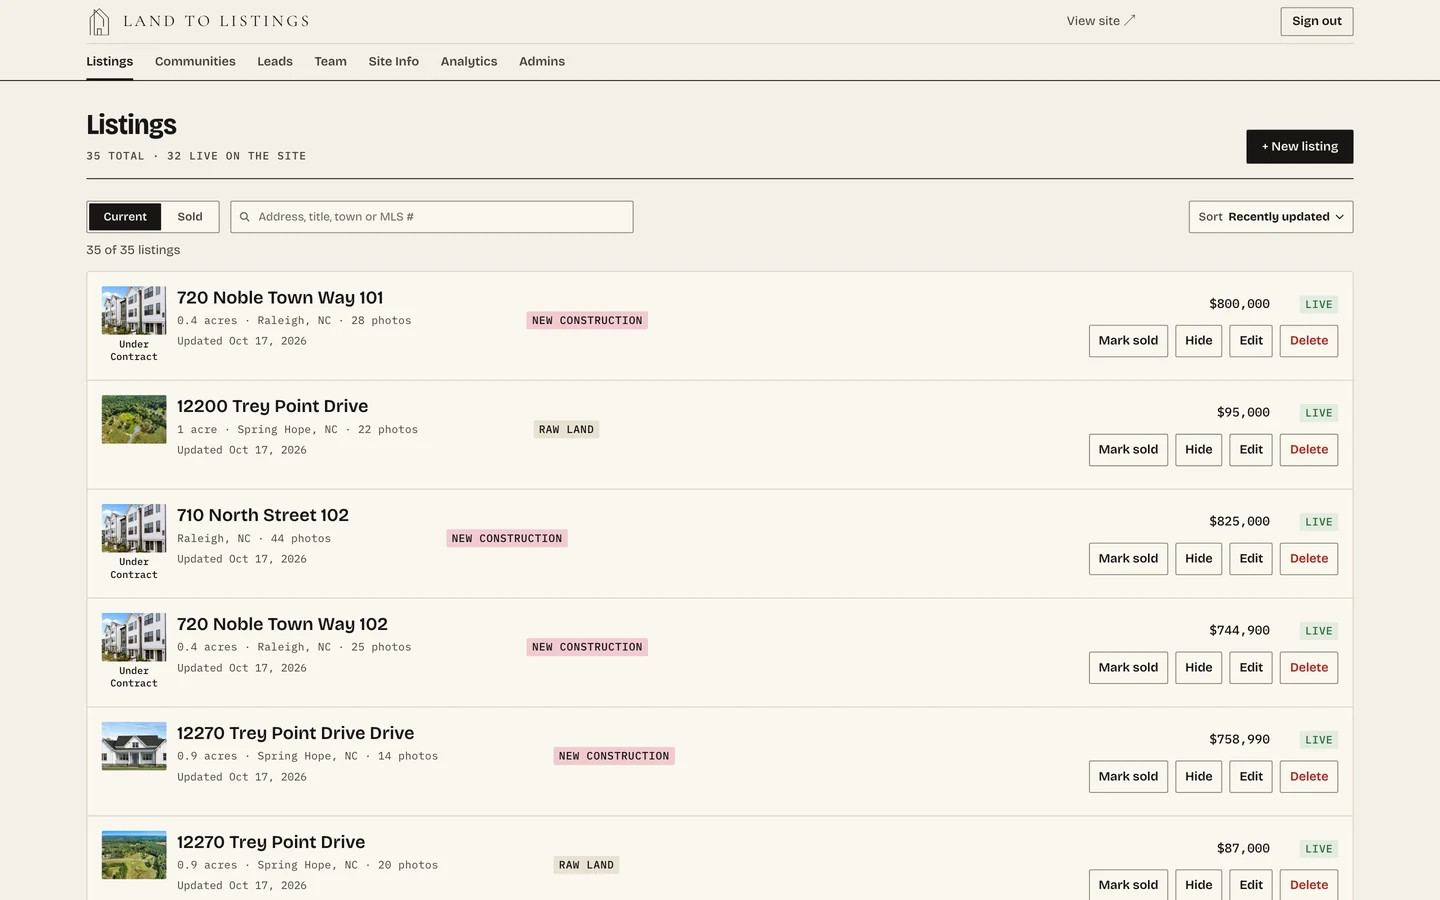
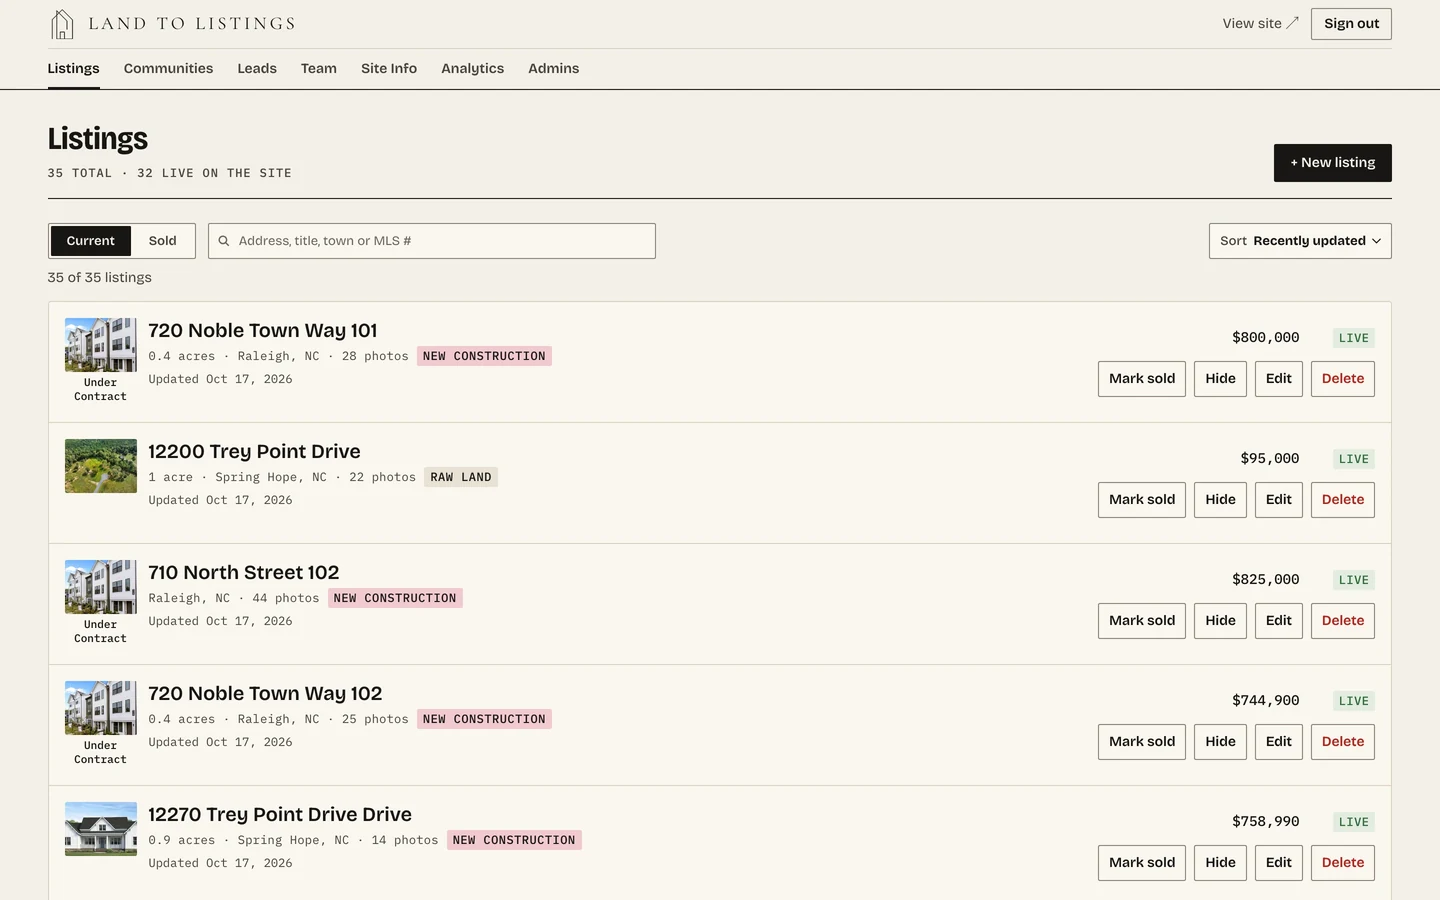
Case study: Steve's review round
- Search demo moves below the MLS section, retitled 'Try their search',
  with a first-step prompt in the accent inside the demo; the hero feature
  no longer leads with shareable links.
- Admin screenshot recaptured with the MLS badges and email removed, not
  blanked, so rows close up.
- 'The land value form' replaces 'A form landowners finish'.
- Nightly sync copy says what updates (price, status, Under Contract,
  sold or withdrawn comes off), sourced from docs/mls.md.
- Timeline trimmed to two shipped milestones a week; no call or change
  counts.
- Close row drops the cropped listing photo; close.image removed.
- Skill: voice rules for all of the above, remove-not-blank captures,
  local D1 sign-in for admin captures.

diff --git a/src/work/content/land-to-listings.ts b/src/work/content/land-to-listings.ts
@@ -43,7 +43,7 @@ const landToListings: CaseStudyContent = {
     { label: 'Runs on', value: 'Their own Cloudflare account' },
   ],
   features: [
-    'A map where every search is a link',
+    'Land and homes on one map',
     'Listings imported from their MLS',
     'Prices and status synced every night',
     'An admin with no passwords',
@@ -57,9 +57,9 @@ const landToListings: CaseStudyContent = {
     ],
   },
   demo: {
-    title: 'Every search is a link',
-    body: 'This is their live inventory. Pick a side, a place and a price: the map and the address change together, and the link opens the same results on their site.',
-    hint: 'Try Land, then Nash.',
+    title: 'Try their search',
+    body: 'This is their real inventory on a working map. Pick land or homes, a county, a price or a size, and the pins and the count follow along. The address changes too, so any search on their site can be sent as a link.',
+    hint: 'Start with Land, then pick Nash.',
   },
   story: {
     title: 'What we built',
@@ -86,7 +86,7 @@ const landToListings: CaseStudyContent = {
         image: screen('admin-listings', 'The admin listings table: Current and Sold tabs, a search box and a sort, and rows with each listing’s photo, address, type, price, status and actions.'),
       },
       {
-        title: 'A form landowners finish',
+        title: 'The land value form',
         body: 'It asks where the land is and how to reach them, and nothing else is required. Their own drone footage plays beside it as a slow loop. Every lead is saved before the email goes out, so a mail failure can’t lose one.',
         image: screen('land-value', 'The “Tell us about your land” page: an aerial video of a road through green fields beside a numbered form.'),
       },
@@ -98,7 +98,7 @@ const landToListings: CaseStudyContent = {
     stages: [
       { name: 'Feed', body: 'Each listing arrives with its facts, its agents and every photo. The site takes only the team’s own listings and follows each seller’s display choices.' },
       { name: 'Import', body: 'A broker types an MLS number and gets a draft to review. The first batch brought in 25 listings and 802 photos.' },
-      { name: 'Nightly', body: 'At 4 a.m. the site checks every linked listing. Price and status follow the MLS, and the brokers’ descriptions are never touched.' },
+      { name: 'Nightly', body: 'At 4 a.m. the site checks every linked listing against the MLS. Prices and status update on their own, a pending sale shows Under Contract, and a sold or withdrawn listing comes off the site.' },
     ],
   },
   timeline: {
@@ -108,49 +108,40 @@ const landToListings: CaseStudyContent = {
         range: 'Sep 15–21',
         theme: 'A working map',
         milestones: [
-          { date: 'Sep 15', title: 'First commit', note: 'Astro on Cloudflare Workers, with D1, R2, email and sign-in links.' },
-          { date: 'Sep 17', title: 'Land and homes split', note: 'Two sides of the business, one listing form.' },
-          { date: 'Sep 18', title: 'The map works', note: 'A blank basemap and a broken back button, both fixed.' },
+          { date: 'Sep 15', title: 'First commit', note: 'Astro on Cloudflare Workers.' },
+          { date: 'Sep 18', title: 'The map', note: 'Land and homes on one searchable map.' },
         ],
       },
       {
         range: 'Sep 22–28',
         theme: 'The design',
         milestones: [
-          { date: 'Sep 22', title: 'The map agrees with the list', note: 'Filters, menu and map share one set of results.' },
-          { date: 'Sep 25', title: 'The surveyor’s sheet', note: 'A full redesign: paper, ink and survey drawings on every page.' },
-          { date: 'Sep 27', title: 'Three home pages', note: 'Built side by side on the live site so the client could choose.' },
-          { date: 'Sep 28', title: 'Copy pass', note: 'Every page rewritten in plain language.' },
+          { date: 'Sep 25', title: 'The surveyor’s sheet', note: 'Paper, ink and survey drawings across the site.' },
+          { date: 'Sep 27', title: 'Home page options', note: 'Three directions for the client to pick from.' },
         ],
       },
       {
         range: 'Sep 29–Oct 5',
         theme: 'The MLS',
         milestones: [
-          { date: 'Oct 1', title: 'Team bios', note: 'An editor for the people on the About page.' },
-          { date: 'Oct 2', title: 'The plat home page', note: 'The client’s pick becomes the home page, and the MLS import is built.' },
-          { date: 'Oct 3', title: 'Their own account', note: 'The same code deployed to the client’s Cloudflare account.' },
+          { date: 'Oct 2', title: 'MLS import', note: 'Listings come in by their MLS number.' },
+          { date: 'Oct 3', title: 'Their own account', note: 'The site moves to the client’s Cloudflare account.' },
         ],
       },
       {
         range: 'Oct 6–12',
         theme: 'Launch',
         milestones: [
-          { date: 'Oct 7', title: 'Disclaimers', note: 'Land disclaimers, and Equal Housing in the footer.' },
-          { date: 'Oct 9', title: 'Communities', note: 'Their seven categories, and the first live MLS key.' },
-          { date: 'Oct 10', title: 'Their footage', note: 'Two drone clips become slow loops on the site.' },
-          { date: 'Oct 12', title: 'landtolistings.com goes live', note: 'On their domain, with real listings.' },
+          { date: 'Oct 9', title: 'Communities', note: 'Each development gets its own page.' },
+          { date: 'Oct 12', title: 'Live', note: 'landtolistings.com goes live with real listings.' },
         ],
       },
       {
         range: 'Oct 13–19',
         theme: 'After launch',
         milestones: [
-          { date: 'Oct 13', title: 'Photo import', note: 'No cap on photos per listing, and imports that resume.' },
-          { date: 'Oct 14', title: 'Nightly MLS sync', note: 'Prices and status update every night, and Undo arrives in the admin.' },
-          { date: 'Oct 16', title: 'Client call', note: 'Seven changes from the call shipped the same day.' },
-          { date: 'Oct 17', title: 'Agent credits', note: 'Listing agents and the MLS copyright, read from the feed.' },
-          { date: 'Oct 19', title: 'Faster pages', note: 'Thumbnails, no layout shift, and desktop Lighthouse scores of 98 to 100.' },
+          { date: 'Oct 14', title: 'Nightly sync', note: 'Prices and status stay current on their own.' },
+          { date: 'Oct 19', title: 'Faster pages', note: 'Desktop Lighthouse scores of 98 to 100.' },
         ],
       },
     ],
@@ -192,7 +183,6 @@ const landToListings: CaseStudyContent = {
   close: {
     title: 'Tell us the hard thing',
     body: 'An engineer reads every message. Tell us what’s broken, half-built or still an idea, and we’ll say if we’re the right fit.',
-    image: screen('community', 'An aerial photo of a new development.'),
   },
   related: ['custom-software', 'fractional-engineering-team'],
 };

diff --git a/src/work/CaseStudyPage.tsx b/src/work/CaseStudyPage.tsx
@@ -8,8 +8,8 @@
 // .taste-skill/direction.json). In order:
 //   hero board (name, jump links, portrait + facts, hero art + statement,
 //   features + action), pinned while the hero art builds on scroll
-//   -> brief (lead + four readers) -> demo (optional live thing)
-//   -> pinned story of screens -> pipeline (optional) -> timeline tabs
+//   -> brief (lead + four readers) -> pinned story of screens
+//   -> pipeline (optional) -> demo (optional live thing) -> timeline tabs
 //   -> stepped numbers -> where it landed (video, region, facts)
 //   -> the action row (#book) -> site footer.
 import React from 'react';
@@ -52,8 +52,8 @@ export default function CaseStudyPage({ study }: { study: CaseStudyContent }) {
 
   const jumps = [
     { href: '#brief', label: 'The brief' },
-    Demo ? { href: '#search', label: 'Try the search' } : { href: '#numbers', label: 'The numbers' },
     { href: '#built', label: 'What we built' },
+    Demo ? { href: '#search', label: 'Try their search' } : { href: '#numbers', label: 'The numbers' },
     live ? { href: live, label: liveHost ?? 'The live site', external: true } : { href: '#landed', label: 'Where it landed' },
   ];
   const latest = study.timeline.weeks.length - 1;
@@ -106,18 +106,6 @@ export default function CaseStudyPage({ study }: { study: CaseStudyContent }) {
           </div>
         </section>
 
-        {/* the live thing */}
-        {study.demo && Demo && (
-          <section id="search" className="cs-sec cs-demo">
-            <div className="cs-demo__inner">
-              <h2 className="cs-lead cs-strong" data-enter>{study.demo.title}</h2>
-              <p className="cs-body cs-demo__body" data-enter="1">{study.demo.body}</p>
-              <div data-enter="2"><Demo /></div>
-              <p className="cs-small cs-demo__hint">{study.demo.hint}</p>
-            </div>
-          </section>
-        )}
-
         {/* what we built: the pinned story of screens */}
         <section id="built" className="cs-sec">
           <div className="cs-head">
@@ -130,6 +118,17 @@ export default function CaseStudyPage({ study }: { study: CaseStudyContent }) {
         {study.pipeline && (
           <section id="mls" className="cs-sec">
             <Pipeline pipeline={study.pipeline} />
+          </section>
+        )}
+
+        {/* the live thing */}
+        {study.demo && Demo && (
+          <section id="search" className="cs-sec cs-demo">
+            <div className="cs-demo__inner">
+              <h2 className="cs-lead cs-strong" data-enter>{study.demo.title}</h2>
+              <p className="cs-body cs-demo__body" data-enter="1">{study.demo.body}</p>
+              <div data-enter="2"><Demo hint={study.demo.hint} /></div>
+            </div>
           </section>
         )}
 
@@ -178,7 +177,7 @@ export default function CaseStudyPage({ study }: { study: CaseStudyContent }) {
 
         {/* the action row: cropped from a longer row of the board */}
         <section id="book" className="cs-close" aria-labelledby="cs-close-title">
-          <div className="cs-close__flank cs-close__flank--img" aria-hidden="true"><Shot image={study.close.image} /></div>
+          <div className="cs-close__flank" aria-hidden="true" />
           <div className="cs-close__tile">
             <h2 id="cs-close-title" className="cs-h">{study.close.title}</h2>
             <p className="cs-body">{study.close.body}</p>

diff --git a/src/styles/work.css b/src/styles/work.css
@@ -184,7 +184,18 @@
    ============================================================ */
 .cs-demo__inner { width: min(980px, 100%); margin: 0 auto; display: grid; gap: 16px; }
 .cs-demo__body { max-width: 40rem; margin-bottom: 20px; }
-.cs-demo__hint { margin-top: 8px; }
+/* the first thing to try, in the page's accent so it reads as an invitation;
+   after the first pick it settles into the panel and says what's happening */
+[data-ui] .ltl-search__try {
+  margin: 0 0 8px;
+  padding: 12px 14px;
+  background: var(--cs-accent);
+  color: var(--cs-on-accent);
+  font-size: 16px;
+  font-weight: 700;
+  transition: background-color 240ms ease, color 240ms ease;
+}
+[data-ui] .ltl-search__try[data-touched='true'] { background: #e8e1d3; color: #47433c; font-weight: 500; }
 
 /* the client's interface, so its own thin map lines live under [data-ui] */
 [data-ui].ltl-search {
@@ -418,7 +429,6 @@
   scroll-margin-top: var(--cs-header);
 }
 .cs-close__flank { grid-column: span 2; background: var(--cs-mid); min-height: 360px; overflow: hidden; }
-.cs-close__flank--img img { display: block; width: 100%; height: 100%; object-fit: cover; object-position: 30% 55%; }
 .cs-close__tile {
   grid-column: span 8;
   background: var(--cs-accent);

diff --git a/src/work/flair/land-to-listings/Search.tsx b/src/work/flair/land-to-listings/Search.tsx
@@ -39,9 +39,10 @@ function money(n: number): string {
   return n >= 1000000 ? `$${n / 1000000}M` : `$${n / 1000}k`;
 }
 
-export default function Search() {
+export default function Search({ hint }: { hint: string }) {
   const [s, setS] = React.useState<Selection>({ division: '', place: '', maxPrice: null, acres: null, beds: null, availability: '' });
-  const set = <K extends keyof Selection>(k: K, v: Selection[K]) => setS((prev) => ({ ...prev, [k]: v }));
+  const [touched, setTouched] = React.useState(false);
+  const set = <K extends keyof Selection>(k: K, v: Selection[K]) => { setTouched(true); setS((prev) => ({ ...prev, [k]: v })); };
 
   const matched = ENTRIES.map((e) => e.members.some((m) => memberMatches(e, m, s)));
   const results = matched.filter(Boolean).length;
@@ -104,6 +105,9 @@ export default function Search() {
       </div>
 
       <div className="ltl-search__controls">
+        <p className="ltl-search__try" data-touched={touched ? 'true' : 'false'}>
+          {touched ? 'The pins, the count and the address follow every pick.' : hint}
+        </p>
         <div className="ltl-search__row" role="group" aria-label="Show">
           <span>Show</span>
           <span className="ltl-search__seg">

diff --git a/src/work/types.ts b/src/work/types.ts
@@ -116,7 +116,8 @@ export interface CaseStudyContent {
   features: string[];
   /** Four readers, four columns. */
   brief: { audiences: CaseStudyAudience[] };
-  /** Heading for the interactive demo; renders only when the study has demo flair. */
+  /** Heading for the interactive demo; renders only when the study has demo flair.
+   *  `hint` is shown inside the demo as the first thing to try. */
   demo?: { title: string; body: string; hint: string };
   story: { title: string; intro: string; steps: CaseStudyStep[] };
   /** Optional "many into one" diagram: three named stages, left to right. */
@@ -134,7 +135,7 @@ export interface CaseStudyContent {
     region: CaseStudyRegion;
     facts: CaseStudyFact[];
   };
-  close: { title: string; body: string; image: CaseStudyImage };
+  close: { title: string; body: string };
   /** Related service slugs (src/services). */
   related: string[];
 }

diff --git a/src/work/flair/index.ts b/src/work/flair/index.ts
@@ -1,6 +1,7 @@
 // Flair registry: optional custom pieces for one case study, keyed by slug.
 // - hero: the art in the hero's large tile (otherwise the study's cover image).
-// - demo: the live thing, rendered under the study's `demo` heading.
+// - demo: the live thing, rendered under the study's `demo` heading; it gets
+//   the study's `demo.hint` and shows it as the first thing to try.
 // A flair piece owns visuals only (labels at most), uses the site tokens or
 // the client's own colours, animates transform, opacity or clip-path, and
 // shows its finished state under reduced motion. Interface fragments of the
@@ -11,7 +12,7 @@ import Search from './land-to-listings/Search';
 
 export interface Flair {
   hero?: ComponentType;
-  demo?: ComponentType;
+  demo?: ComponentType<{ hint: string }>;
 }
 
 export const FLAIR: Partial<Record<string, Flair>> = {

diff --git a/.claude/skills/case-study/voice.md b/.claude/skills/case-study/voice.md
@@ -39,8 +39,16 @@ the word rules it can't check.
 - **Re-check old claims on every update.** Features get switched off (video
   uploads), rules change (sold listings went private), costs change. A claim
   that was true at launch can be false a week later.
-- **Timeline milestones are real dates from the history.** Title in two to
-  five words; the note one plain sentence.
+- **Timeline milestones are real dates from the history**, two or three a
+  week, at the level of what shipped ("MLS import", "Communities"). Title in
+  two to five words; the note one short sentence. Leave out the process:
+  calls, fixes, copy passes, how many changes went out when. Steve: "too
+  much detail".
+- **Name a screen by what it is** ("The land value form"), not by a cute
+  claim about its users ("A form landowners finish" read as AI).
+- **Describe what the system does, not what it leaves alone.** "Prices and
+  status update on their own" lands; "the brokers' descriptions are never
+  touched" reads oddly to a buyer.
 
 ## Privacy
 
@@ -50,8 +58,10 @@ the word rules it can't check.
 - **Never publish:** pricing, discounts, fees, how the client found us,
   private emails or call notes, contract terms, analytics sample sizes, lead
   counts, or anything from a private planning doc that isn't visible on the
-  live site. Process facts are fine without names ("Seven changes from the
-  call shipped the same day").
+  live site. Leave out process detail entirely (calls, change counts).
+- **Remove, don't blank.** When a screenshot holds something private (an MLS
+  number, an email), delete the element before the shot so the layout closes
+  up; a hidden element leaves a hole that looks broken.
 - Search the rendered page for every name on the private list before the PR.
 
 ## What's worth bragging about
@@ -62,10 +72,11 @@ would feel it, and a competitor's site plausibly wouldn't do it.
 **Cut** (table stakes): the back button works, it's responsive, it has HTTPS,
 it loads, forms validate, it has a sitemap.
 
-**Keep** (outcomes): a search you can text to someone and it opens on the same
-results; staff bring a listing in from the MLS instead of typing it twice; a
-lead is saved even when the email fails; no passwords to leak; measured speed
-(Lighthouse, layout shift) with the date it was measured.
+**Keep** (outcomes): staff bring a listing in from the MLS instead of typing
+it twice; prices stay current overnight; a lead is saved even when the email
+fails; no passwords to leak; measured speed (Lighthouse, layout shift) with
+the date it was measured. Clever-but-niche details (a search you can send as
+a link) are fine as a supporting line or the demo, not as the headline.
 
 ## Field guide
 
@@ -77,13 +88,13 @@ lead is saved even when the email fails; no passwords to leak; measured speed
 | `facts` | Four hero facts: who for (described), live date, build time, where it runs. |
 | `features` | Four short lines for the hero's right rail, each under ~40 characters. |
 | `brief.audiences` | Four readers of the site. `lead` is the bold run-in ("Builders want"), `body` 40-60 words on what they get. |
-| `demo` | Only with a demo flair. Title two to five words; body one or two sentences; `hint` tells the visitor what to try first. |
+| `demo` | Only with a demo flair. Title says to use it ("Try their search"); body one or two sentences; `hint` is the first thing to try, shown in the accent inside the demo. It sits below the story, not near the top: it's the extra, not the pitch. |
 | `story.steps` | 3-5 screens. Title says what the screen does; body (40-55 words) says how and why it matters. |
 | `pipeline` | Optional. Three stages named in one word each; body one or two sentences with a real number. |
-| `timeline` | Two-line heading (first line soft); one tab per week, 3-5 dated milestones each. |
+| `timeline` | Two-line heading (first line soft); one tab per week, two or three dated milestones each. |
 | `stats` | Exactly three real numbers; the first is the loud one. Labels in plain words. |
 | `landed` | Where it stands now, honestly. `lead` under ~30 words; `note` over the video under 35 words; four facts. |
-| `close` | The site's own CTA voice; `image` crops into the narrow flank tile. |
+| `close` | The site's own CTA voice. Its flank tiles stay plain: a cropped client photo there looked random. |
 | `cardDescription` | One sentence for the Work grid and llms.txt: product, audience, stack. |
 | `metaTitle` | <= 52 chars, no "| bash squad" suffix. |
 | `metaDescription` | 140-160 chars. |

diff --git a/.claude/skills/case-study/capture.md b/.claude/skills/case-study/capture.md
@@ -84,10 +84,17 @@ with the shared browser (`browser.open` without `app`), which has WebGL, and
 check `document.querySelectorAll('canvas').length > 0` before the shot.
 
 **Local dev screens:** hide framework toolbars before the screenshot
-(`await page.addStyleTag({ content: 'astro-dev-toolbar, nextjs-portal { display: none !important }' })`)
-and add your own sign-in email to `hide`. If a wide admin table clips at
-1440, capture at `{ width: 1600, height: 1000, deviceScaleFactor: 1.8 }`:
-still 2880x1800 pixels, so `resize.py` accepts it.
+(`await page.addStyleTag({ content: 'astro-dev-toolbar, nextjs-portal { display: none !important }' })`).
+For private values in admin screens (MLS numbers, emails), **remove** the
+elements (`el.remove()`) instead of hiding them, so rows close up with no
+gaps. If a wide admin table clips at 1440, capture at
+`{ width: 1600, height: 1000, deviceScaleFactor: 1.8 }`: still 2880x1800
+pixels, so `resize.py` accepts it.
+
+**Signing in to a local Better Auth admin** when the dev server's log isn't
+yours to read: insert a one-hour token into local D1 with the recipe in the
+`better-auth-d1-magic-link-mint` skill (`--local` instead of `--remote`,
+`http://localhost:4321` as the site), and open the link in the capture tab.
 
 Then size them:
 

diff --git a/.claude/skills/case-study/SKILL.md b/.claude/skills/case-study/SKILL.md
@@ -35,8 +35,8 @@ board": flat tiles on the page ground, 8px apart, square corners, one accent
 monospace, no eyebrow labels, no 01/02/03 numbering, five type sizes. In
 order: a pinned hero board (the name huge, jump links, phone screen + facts,
 the hero art + statement, features + the action) → the brief (lead + four
-readers) → the live demo → the pinned story of screens → the MLS-style
-pipeline → timeline tabs → three stepped numbers → where it landed (video,
+readers) → the pinned story of screens → the MLS-style pipeline → the live
+demo → timeline tabs → three stepped numbers → where it landed (video,
 region, facts) → the action row → site footer. Optional blocks (demo,
 pipeline) simply drop out.
 
